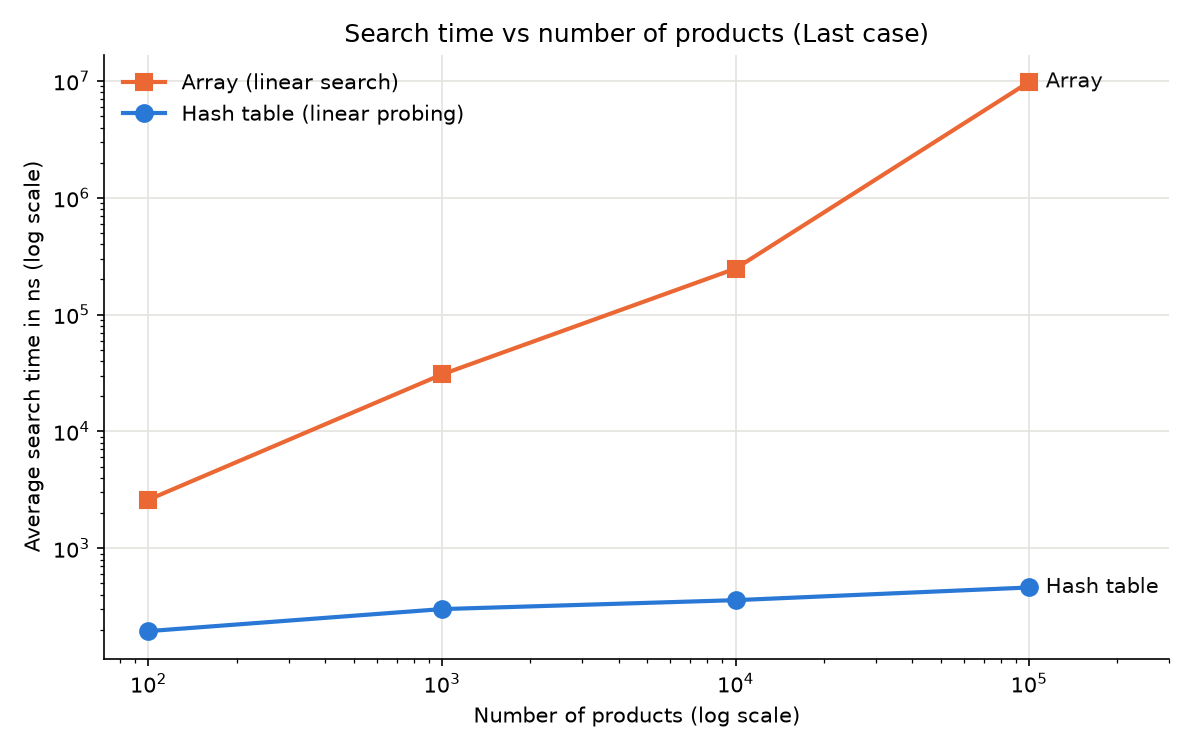
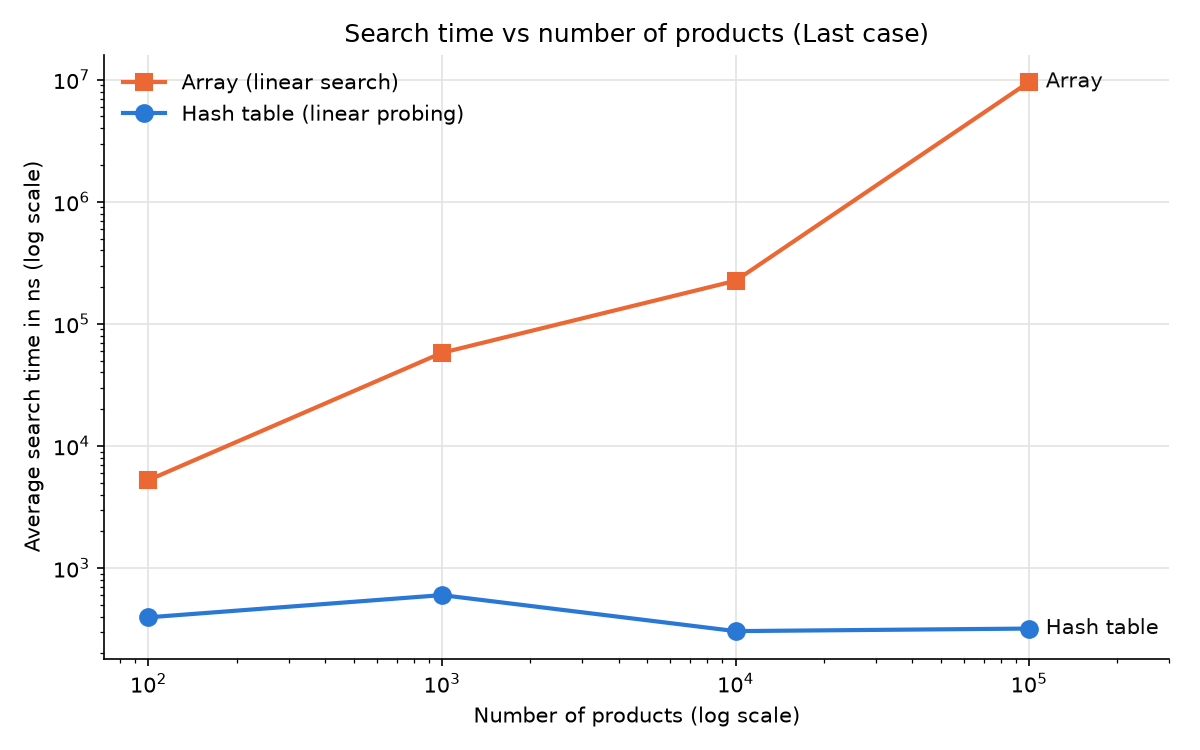
Fix Product validation, graph path, messages and formatting; time not-found searches

diff --git a/Q1_Hashing/inventory_cli.py b/Q1_Hashing/inventory_cli.py
@@ -70,7 +70,7 @@ def read_price(prompt):
             print("Please enter a valid price")
             continue
         if not price.is_finite() or price < 0:
-            print("Price must be 0 or more")
+            raise ValueError("Price must be a number, 0 or more")
             continue
         return price
 
@@ -109,9 +109,9 @@ def print_menu():
 
 def insert_product(table, products):
     """Ask for a new product's details and insert it into the table"""
-    product_id = read_int("Product ID: ", minimum=1)
+    product_id = read_int("Enter Product ID: ", minimum=1)
     if table.locate(product_id)[0] is not None:
-        print(f"Product {product_id} already exists\n")
+        print(f"Product {product_id} already exists. Use Edit to change it\n")
         return
     name = read_text("Enter Product Name: ")
     price = read_price("Enter Price (RM): ")
@@ -134,23 +134,25 @@ def insert_product(table, products):
 
 
 def search_product(table, products):
-    """Ask for a Product ID and show the product, then time hash vs array search"""
+    """Ask for a Product ID, show the result, then time hash vs array search"""
     product_id = read_int("Enter Product ID to search: ", minimum=1)
     slot, probes = table.locate(product_id)
+
     if slot is None:
-        print(f"Product {product_id} not found (checked {probes} slot(s))\n")
-        return
-    product = table.search(product_id)
-    print("Product found")
-    print(product)
-    print(f"Found in slot [{slot}] after {probes} probe(s)\n")
+        print(f"Product {product_id} not found (checked {probes} slot(s))")
+        where = "not in array, checked all"
+    else:
+        product = table.search(product_id)
+        print("Product found")
+        print(product)
+        print(f"Found in slot [{slot}] after {probes} probe(s)")
+        where = f"position {products.index(product) + 1}"
 
     hash_ns = average_time_ns(lambda: table.locate(product_id))
     array_ns = average_time_ns(lambda: linear_search(products, product_id))
-    position = products.index(product) + 1
     print(f"Search completed in {hash_ns:,.0f} ns (Hash Table)")
     print(f"Search completed in {array_ns:,.0f} ns (Array - same record, "
-          f"position {position} of {len(products)})")
+          f"{where} {len(products)})")
     print(f"(average of {REPEATS} searches each)\n")
 
 

diff --git a/Q1_Hashing/experiment.py b/Q1_Hashing/experiment.py
@@ -7,11 +7,13 @@ from datetime import date
 from hash_table import HashTable
 from product import Product
 
-REPEATS = 200 # How many times each search is repeated and averaged
+REPEATS = 200  # How many times each search is repeated and averaged
 RANDOM_SEED = 42  # Fixed seed so every run uses the same test data
-SIZES = [100, 1000, 10000, 100000] # Number of products in each test
-GRAPH_CASE = "Last" # Which case to draw on the graph
-GRAPH_FILE = os.path.join("results", "search_times.png")
+SIZES = [100, 1000, 10000, 100000]  # Number of products in each test
+GRAPH_CASE = "Last"  # Which case to draw on the graph
+RESULTS_DIR = os.path.join(os.path.dirname(os.path.abspath(__file__)), "results")
+GRAPH_FILE = os.path.join(RESULTS_DIR, "search_times.png")
+
 
 def is_prime(number):
     """Return True if number is a prime number"""
@@ -136,7 +138,7 @@ def plot_results(all_results, case=GRAPH_CASE):
     ax.set_xlim(right=sizes[-1] * 3)
     fig.tight_layout()
 
-    os.makedirs("results", exist_ok=True)
+    os.makedirs(RESULTS_DIR, exist_ok=True)
     fig.savefig(GRAPH_FILE, dpi=150)
     print(f"\nGraph saved to {GRAPH_FILE}")
     plt.show()

diff --git a/Q1_Hashing/product.py b/Q1_Hashing/product.py
@@ -18,7 +18,7 @@ class Product:
             raise ValueError("Price must be a number")
         if price < 0:
             raise ValueError("Price cannot be negative")
-        if not isinstance(stock, int) or stock < 0:
+        if not isinstance(stock, int) or stock <= 0:
             raise ValueError("Stock must be a positive whole number")
         if not isinstance(expiry_date, date):
             raise ValueError("Expiry date must be a date")
@@ -43,7 +43,6 @@ class Product:
                 f"Price: RM{self.price} | Stock: {self.stock} | "
                 f"Category: {self.category} | Expiry: {self.expiry_date} | "
                 f"Prescription: {prescription}")
-
 
     def __repr__(self):
         return f"Product({self.product_id}, {self.name!r})"
